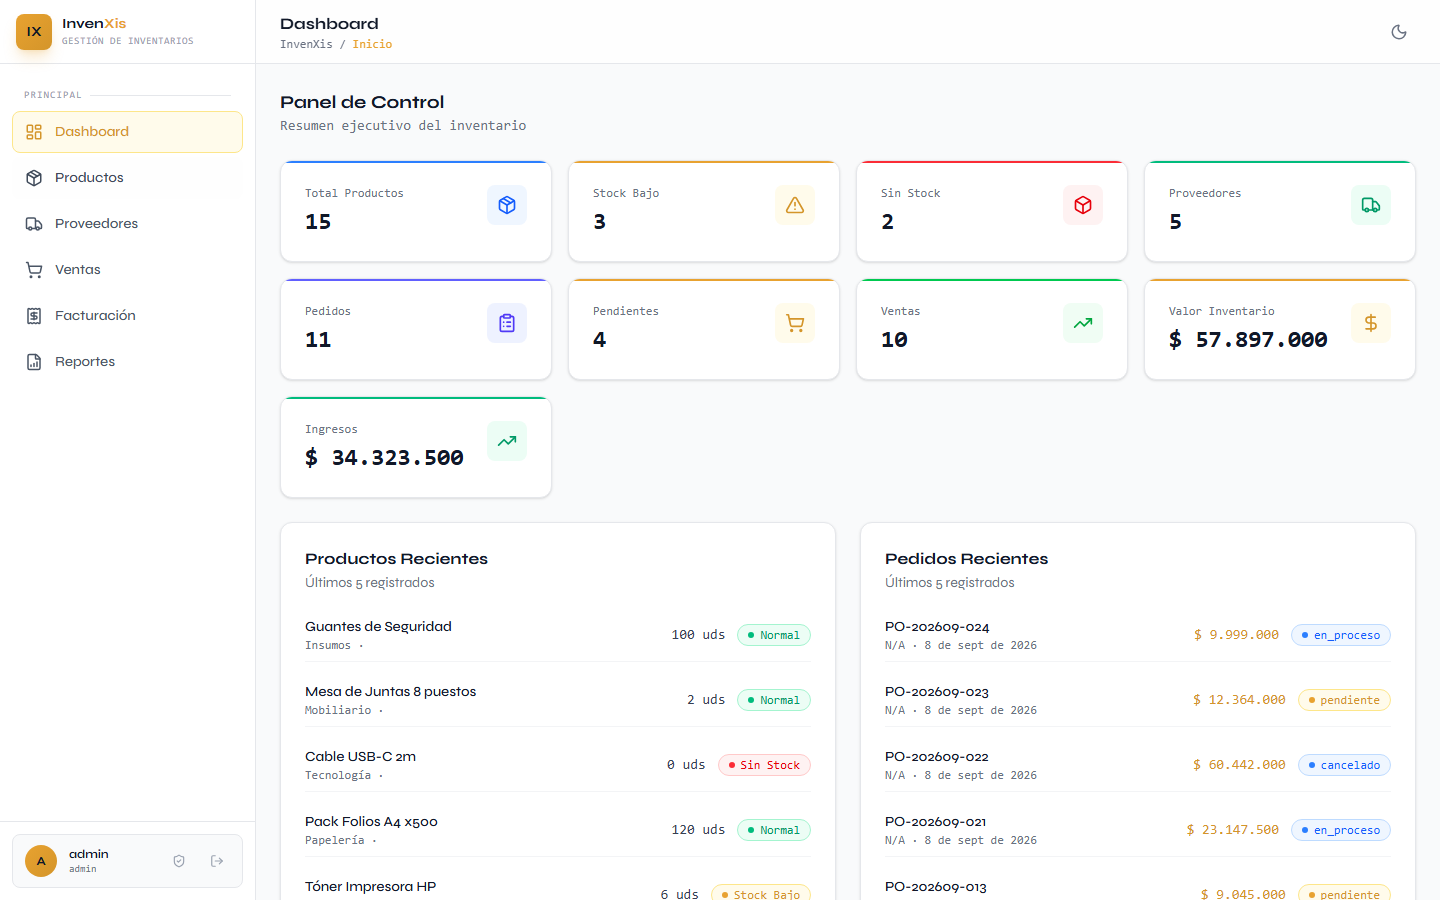
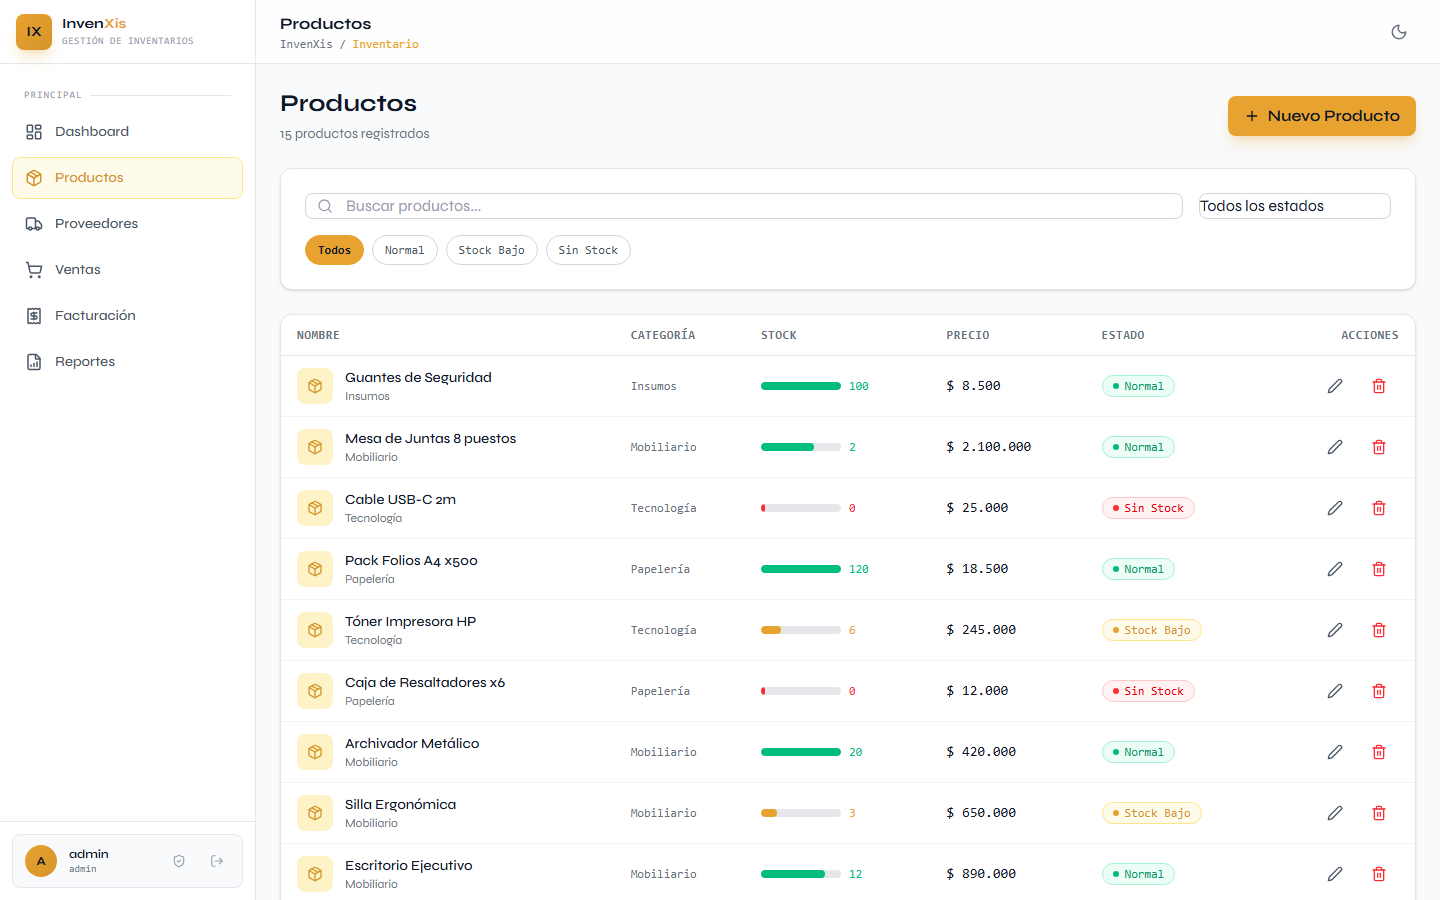
docs: capturas por modulo (7) verificadas + anexo B actualizado

diff --git a/docs/ev02/generar_pdf.py b/docs/ev02/generar_pdf.py
@@ -338,9 +338,10 @@ def main():
     el.append(P('8. Anexos', sH1))
     for a in ['<b>Anexo A:</b> diagrama entidad-relación — <font face="Courier" size="8">docs/ev02/ER-InvenXis.svg '
               '</font>(11 entidades, 13 relaciones; Mermaid en <font face="Courier" size="8">ER-InvenXis.mmd</font>).',
-              '<b>Anexo B:</b> capturas del sistema funcionando — <font face="Courier" size="8">docs/ev02/anexos/'
-              '01-login.png, 02-dashboard.png, 03-productos.png, 04-facturacion.png</font> (tomadas con Playwright '
-              'contra el sistema real).',
+              '<b>Anexo B:</b> capturas por módulo — <font face="Courier" size="8">docs/ev02/anexos/'
+              '01-login.png, 02-dashboard.png, 03-productos.png, 04-proveedores.png, 05-ventas.png, '
+              '06-facturacion.png, 07-reportes.png</font> (tomadas con Playwright contra el sistema real, una por '
+              'módulo).',
               '<b>Anexo C:</b> repositorio remoto con historial de commits — ' + REPO + '.']:
         el.append(P(f'• {a}', sBody))
 

diff --git a/docs/ev02/generar_word.py b/docs/ev02/generar_word.py
@@ -250,8 +250,9 @@ def main():
     titulo(doc, '8. Anexos')
     doc.add_paragraph('Anexo A: diagrama entidad-relación — docs/ev02/ER-InvenXis.svg (11 entidades, '
                       '13 relaciones; Mermaid en ER-InvenXis.mmd).', style='List Bullet')
-    doc.add_paragraph('Anexo B: capturas del sistema funcionando — docs/ev02/anexos/01-login.png, '
-                      '02-dashboard.png, 03-productos.png, 04-facturacion.png (Playwright contra el sistema real).',
+    doc.add_paragraph('Anexo B: capturas por módulo — docs/ev02/anexos/01-login.png, '
+                      '02-dashboard.png, 03-productos.png, 04-proveedores.png, 05-ventas.png, '
+                      '06-facturacion.png, 07-reportes.png (Playwright contra el sistema real, una por módulo).',
                       style='List Bullet')
     doc.add_paragraph(f'Anexo C: repositorio remoto con historial — {REPO}.', style='List Bullet')
 
